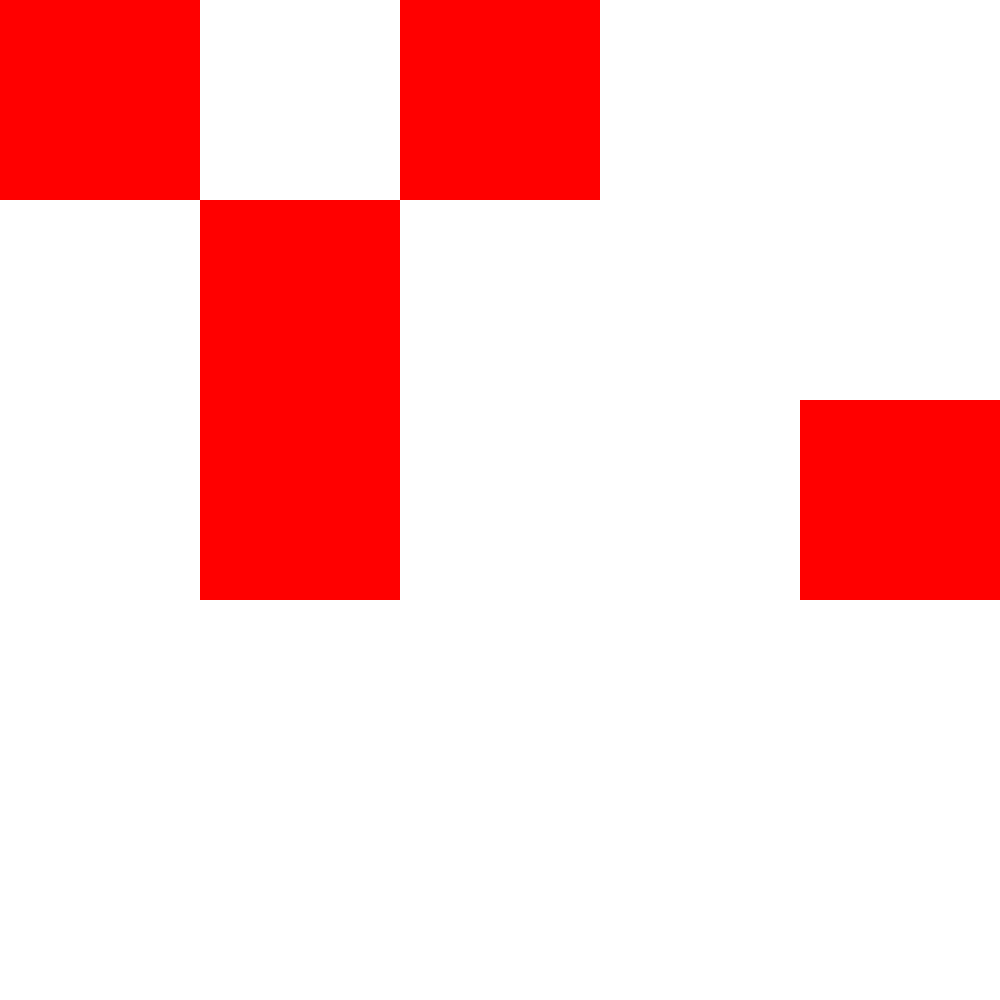
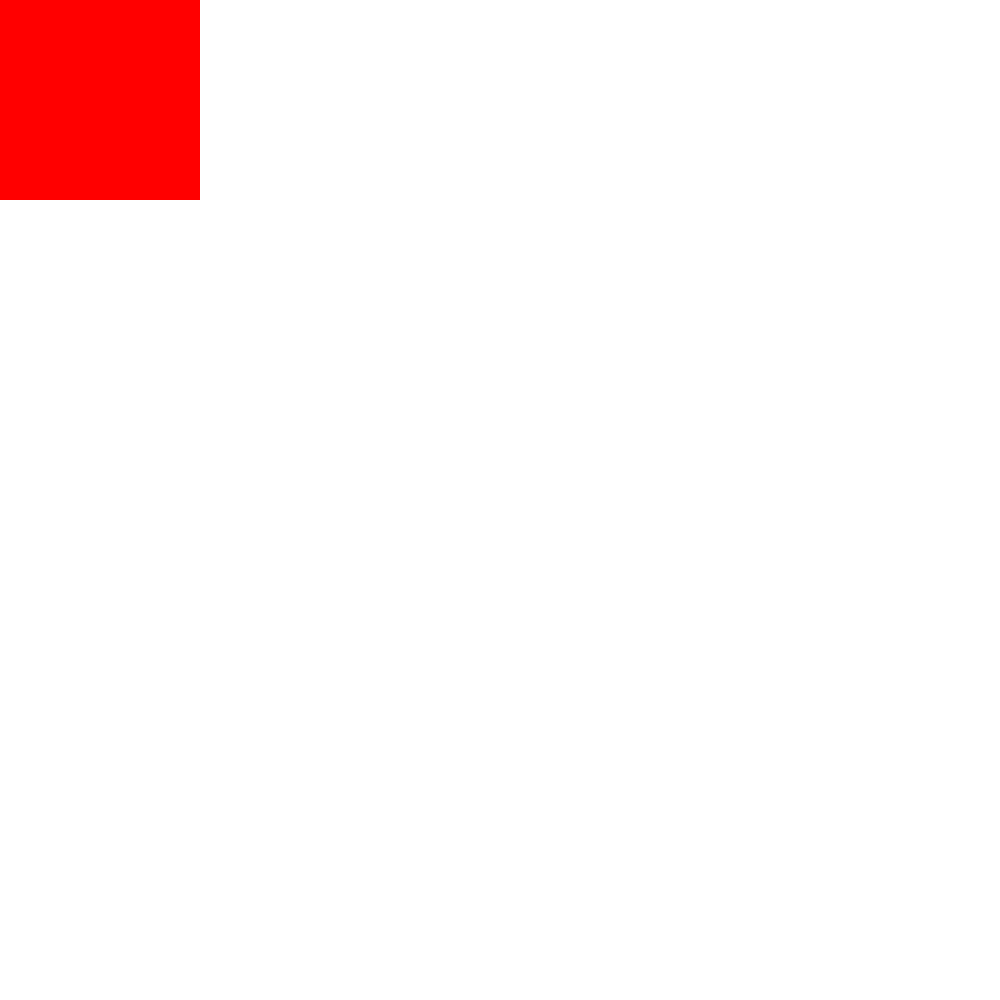
updates

Changed region(s): [[0.186, 0.0, 0.62, 0.62], [0.775, 0.403, 1.0, 0.62]]

diff --git a/event codes/place/place.py b/event codes/place/place.py
@@ -23,25 +23,24 @@ async def on_ready():
     print(client.user.id)
     print('------')
 @client.event
-async def on_button_click(ctx):
-    #a=b[(b.index(a)+1)%len(b)]
-    image=Image.open("C:/Users/User/Desktop/events/event codes/place/full.png")
-    #l=["red", "green", "blue", "yellow", "purple", "orange", "black", "white"]
-    l=["#ff0000", "#00ff00", "#0000ff", "#ffff00", "#ff00ff", "#ff8000", "#000000", "#ffffff"]
-    b=[[1,2,3,4,5],[6,7,8,9,10],[11,12,13,14,15],[16,17,18,19,20],[21,22,23,24,25]]
-    for i in range(5):
-        for j in range(5):
-            print(b[i][j])
-            if b[i][j]==int(ctx.component.label):
-                image.paste(Image.new('RGB', (200,200), getcolor(db[ctx.component.label], "RGB")), (j*200,i*200))
-                image.save("C:/Users/User/Desktop/events/event codes/place/full.png")
-                db[ctx.component.label]=l[(l.index(db[ctx.component.label])+1)%len(l)]
-                print(db[ctx.component.label])
-                break
-    await ctx.respond(type=7,content="http://192.168.100.15:8080/full.png")
+async def on_button_click(res):
+        #a=b[(b.index(a)+1)%len(b)]
+        image=Image.open("C:/Users/User/Desktop/events/event codes/place/full.png")
+        #l=["red", "green", "blue", "yellow", "purple", "orange", "black", "white"]
+        l=["#ff0000", "#00ff00", "#0000ff", "#ffff00", "#ff00ff", "#ff8000", "#000000", "#ffffff"]
+        b=[[1,2,3,4,5],[6,7,8,9,10],[11,12,13,14,15],[16,17,18,19,20],[21,22,23,24,25]]
+        for i in range(5):
+            for j in range(5):
+                print(b[i][j])
+                if b[i][j]==int(res.component.label):
+                    image.paste(Image.new('RGB', (200,200), getcolor(db[res.component.label], "RGB")), (j*200,i*200))
+                    image.save("C:/Users/User/Desktop/events/event codes/place/full.png")
+                    db[res.component.label]=l[(l.index(db[res.component.label])+1)%len(l)]
+                    print(db[res.component.label])
+                    break
+        await res.respond(type=7,files=discord.file("C:/Users/User/Desktop/events/event codes/place/full.png"), suppress=True)
 @client.command()
 async def test(ctx):
-    id="".join(random.sample("qwertyuiopasdfghjklzxcvbnm", 8))
     count=0
     b=[]
     for i in range(5):
